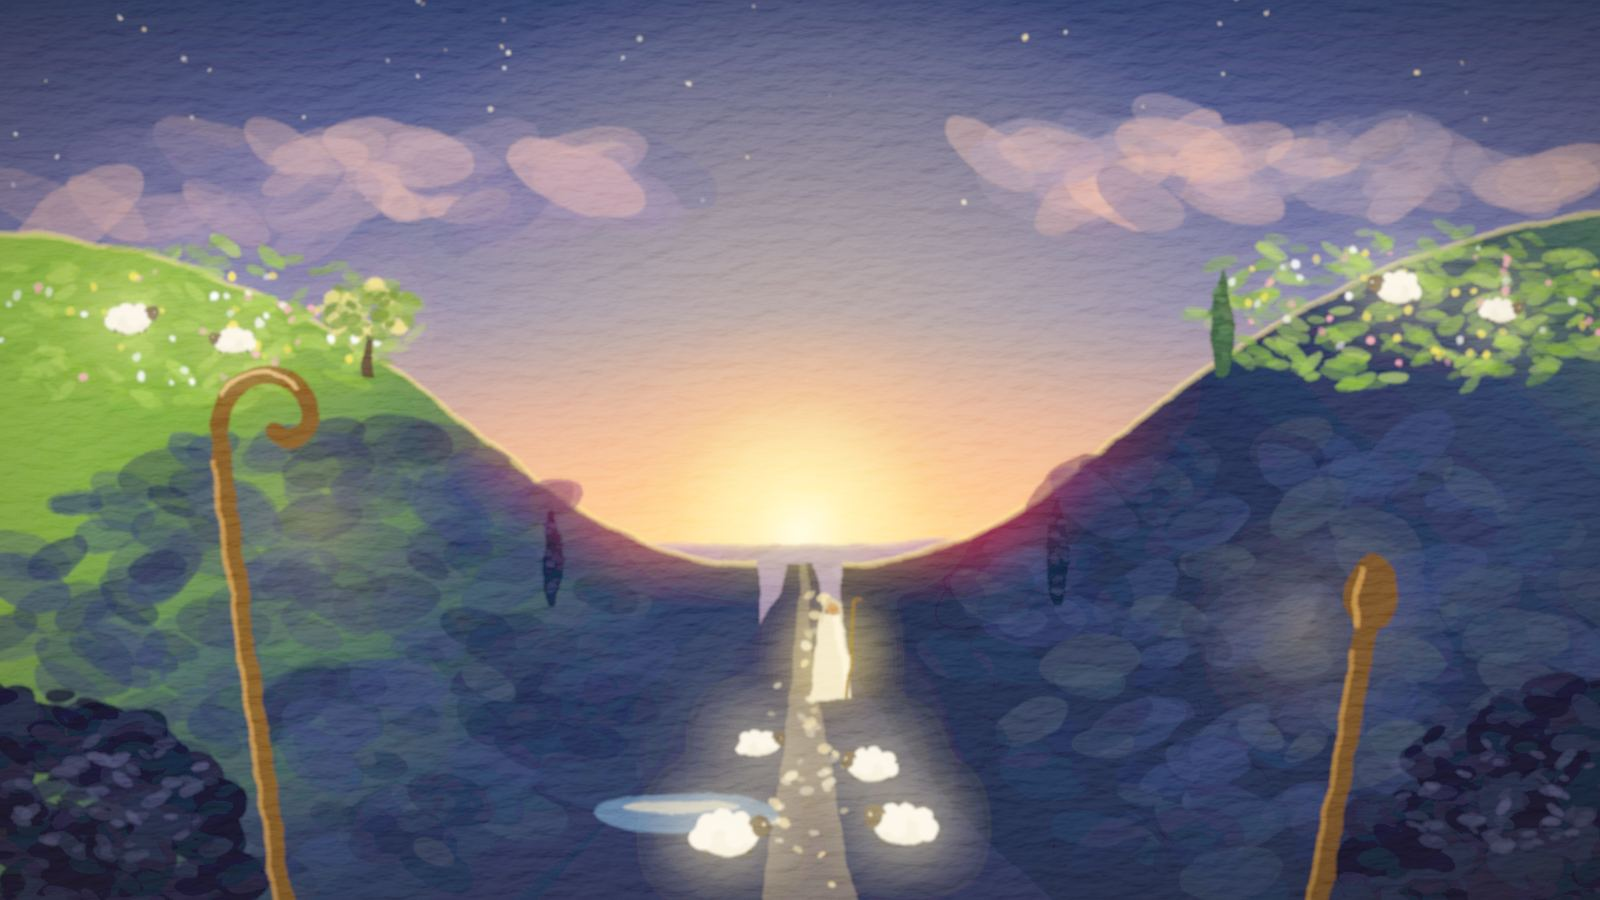
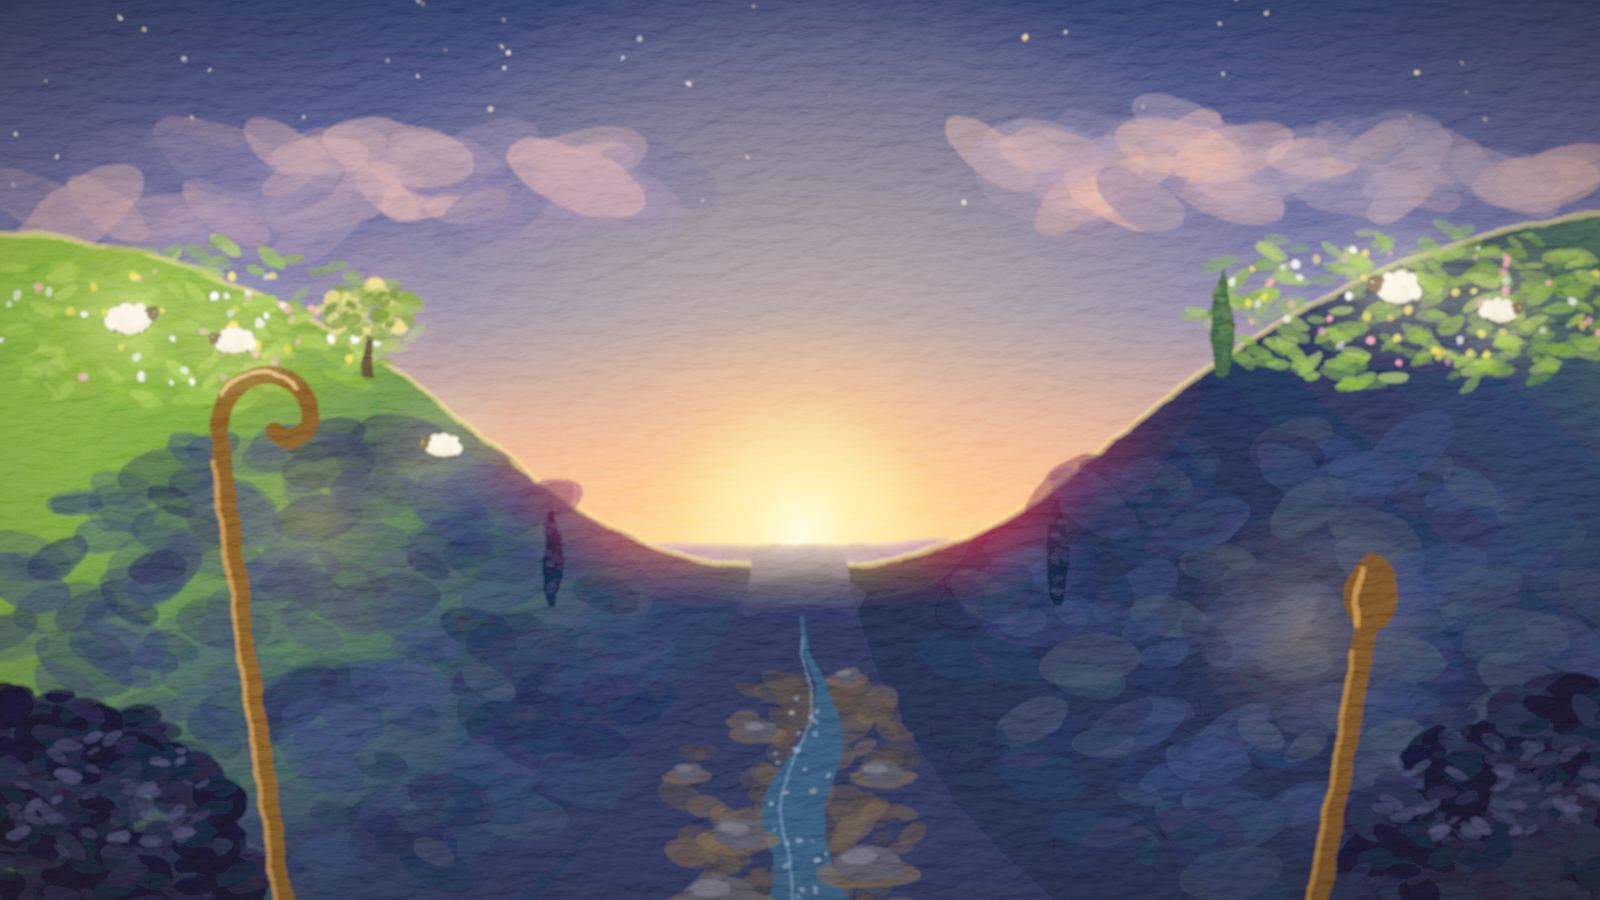
Seasonal Psalm 23: no shepherd, sheep in the light, stream and stones in the valley
Claude-Session: https://claude.ai/code/session_01Sqn2qeG7eJCNMRkH2SjbWb

diff --git a/sw.js b/sw.js
@@ -1,5 +1,5 @@
 // Caches the app itself so it opens offline. Scripture text is not cached here.
-const VERSION = "bible-study-shell-v219";
+const VERSION = "bible-study-shell-v220";
 const SHELL = ["./", "index.html", "styles.css", "js/app.js", "js/books.js", "js/store.js", "js/text.js", "js/paths.js", "js/speech.js", "js/trivia.js", "js/trivia-bank.js", "js/trivia-bank2.js", "js/trivia-bank3.js", "js/art.js", "js/storybook.js", "js/notes.js", "js/notes-more.js", "js/chapters/make.js", "js/chapters/deeper-ot.js", "js/chapters/deeper-nt.js", ...["gen", "exo", "lev", "num", "deu", "jos", "jdg", "rut", "1sa", "2sa", "1ki", "2ki", "1ch", "2ch", "ezr", "neh", "est", "job", "psa", "pro", "ecc", "sng", "isa", "jer", "lam", "ezk", "dan", "hos", "jol", "amo", "oba", "jon", "mic", "nam", "hab", "zep", "hag", "mal", "zec", "mrk", "mat", "luk", "jhn", "act", "rom", "1co", "2co", "gal", "eph", "php", "col", "1th", "2th", "1ti", "2ti", "tit", "phm", "heb", "jas", "1pe", "2pe", "1jn", "2jn", "3jn", "jud", "rev"].map((b) => `js/chapters/${b}.js`), "js/history.js", "js/glossary.js", "js/intros.js", "js/topics.js", "js/outlines.js", "js/stickers.js", "js/bookstats.js", "js/daily.js", "js/guide.js", "js/whatsnew.js", "js/buddyguide.js", "js/buddygrow.js", "js/buddy.js", "js/game.js", "js/auth.js", "js/config.js", "js/vendor/supabase.js",
   "manifest.webmanifest", "icons/icon.svg", "icons/icon-180.png", "icons/icon-192.png", "icons/icon-512.png", "icons/icon-maskable-512.png"];
 

diff --git a/STATUS.md b/STATUS.md
@@ -1,8 +1,8 @@
 # Family Bible App: status
 
 <!-- The first two lines below are updated automatically every time a new version is published. -->
-**Last updated:** Wed Nov 25, 2026, 10:44 AM Central
-**Current version:** v219 (live at bible.breakoutroom.net; open apps update on their own)
+**Last updated:** Wed Nov 25, 2026, 10:52 AM Central
+**Current version:** v220 (live at bible.breakoutroom.net; open apps update on their own)
 
 Release target: **Friday, December 4, 2026**, as a Christmas gift. Everything is finished by Thursday, December 3, so release day is free. All times are Central.
 
@@ -10,6 +10,7 @@ This page is updated with every publish and at each daily check-in (9:00 AM, 1:3
 
 ## Since last update
 
+- Wed Nov 25, 10:55 AM CT: Seasonal round 5, Psalm 23: no shepherd in the picture (you are the shepherd, rod and staff close by); the sheep graze on the green pastures in the light, one at the edge of the shade; the dark valley has a little stream between stones with a tinge of desert dirt.
 - Wed Nov 25, 10:50 AM CT: Games play-test, practice quiz: a miss now names the right answer before its verse, and three awkwardly worded questions read cleanly (1 Peter 3:15, James 3, God's promise to David). Every game has now been play-tested on phone and iPad.
 - Wed Nov 25, 10:45 AM CT: Seasonal round 5 from Melissa: April now shows the three crosses small and far away on a distant hill (sides dark, middle shining), the empty tomb faint in the distance, and the spring garden filling the near ground.
 - Wed Nov 25, 10:55 AM: Seasonal round 4 from Melissa: April shows the three crosses on a distant hill (the two beside it small and dark, the middle one shining), the empty tomb faded behind, in Judean desert colors with spring green and flowers.
